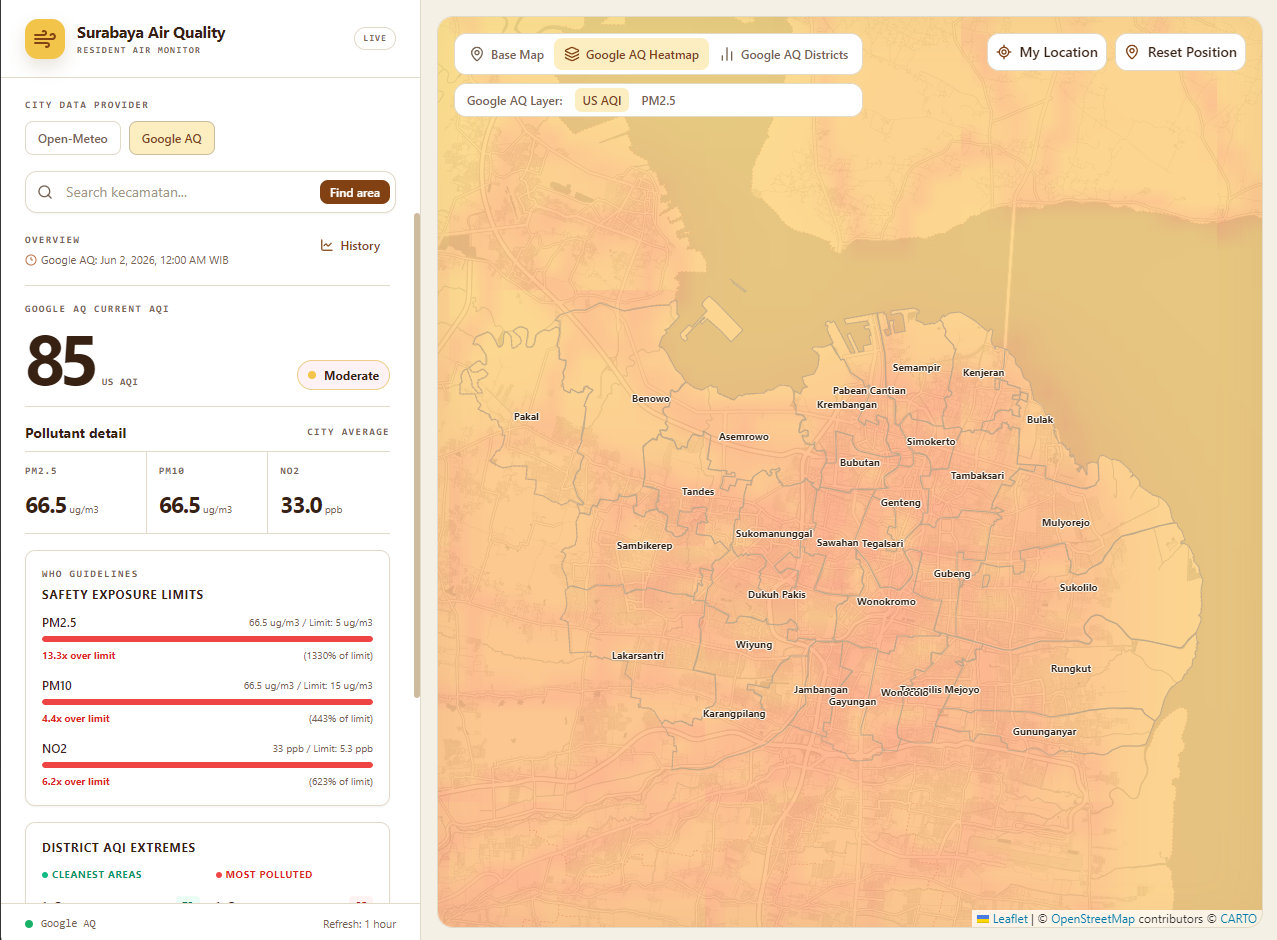
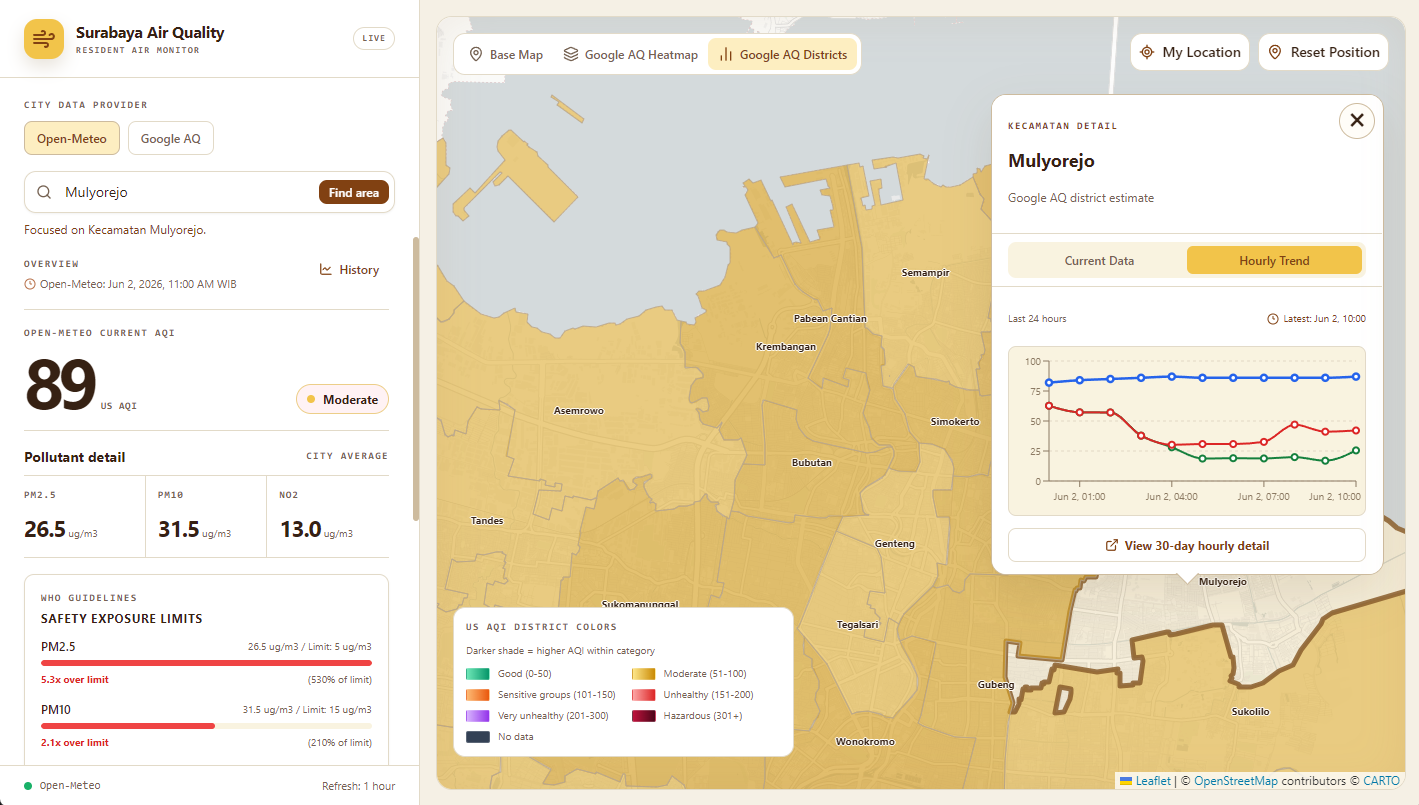
docs: center and update screenshot in README.md, ignore vercel configuration

diff --git a/README.md b/README.md
@@ -6,7 +6,9 @@ A web-based geographic information system for monitoring air quality in Surabaya
 
 **Live URL**: [https://aq-gis-surabaya.vercel.app](https://aq-gis-surabaya.vercel.app)
 
-![Dashboard Preview](./screenshot.png)
+<p align="center">
+  <img src="./screenshot.png" alt="Dashboard Preview" width="100%">
+</p>
 
 The application does not present modeled coordinates as physical sensors. Open-Meteo
 returns modeled air-quality data for a requested coordinate. Google Air Quality returns
